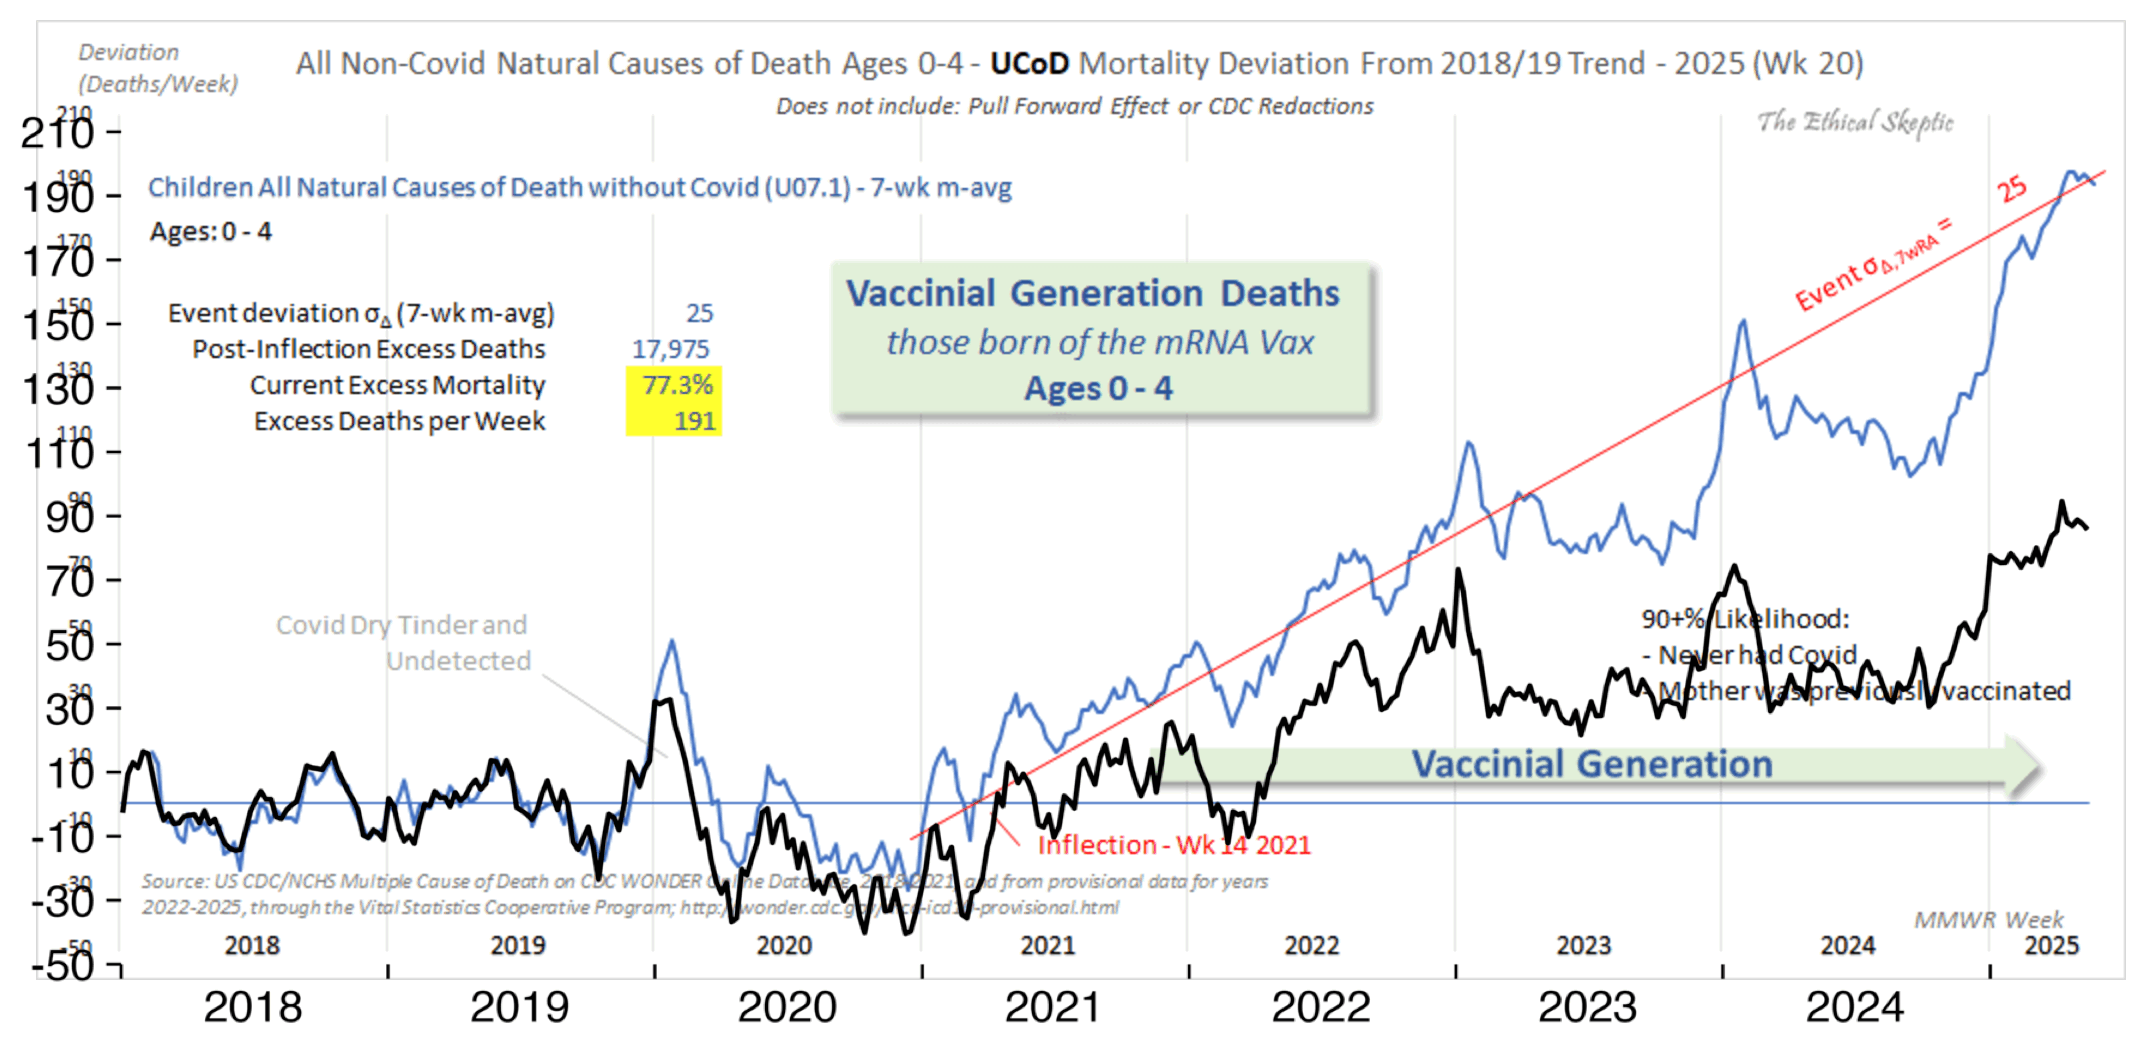
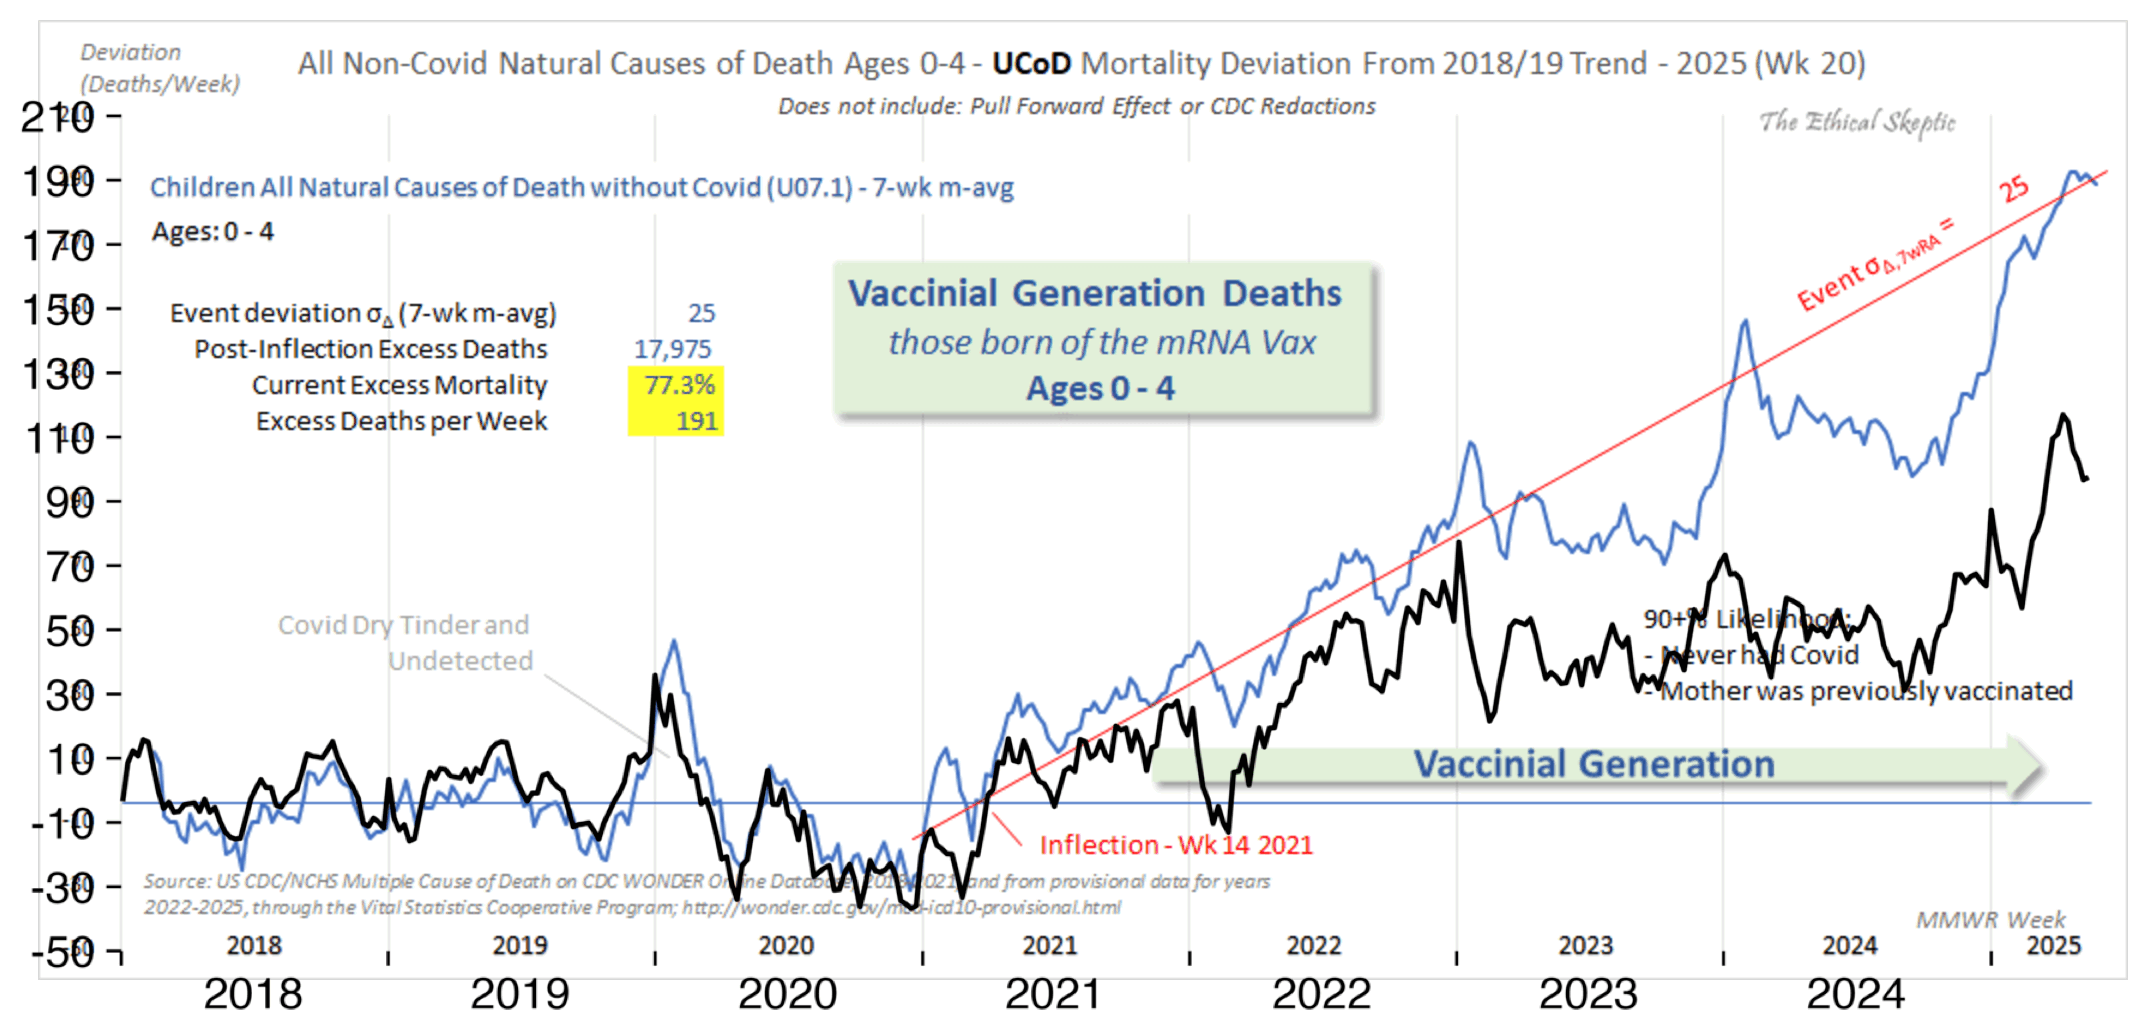
a

diff --git a/ethical3.html b/ethical3.html
@@ -80,6 +80,7 @@ blockquote h3{color:inherit}
 <li><a href="#Are_children_dying_at_rates_never_seen_before">Are children dying at rates never seen before?</a></li>
 <li><a href="#Monthly_stillbirths">Monthly stillbirths</a></li>
 <li><a href="#Was_a_low_number_of_deaths_in_2020_caused_by_pull_forward_effect_due_to_COVID_deaths_in_2019">Was a low number of deaths in 2020 caused by pull-forward effect due to COVID deaths in 2019?</a></li>
+<li><a href="#Failed_attempt_to_reproduce_exponential_baseline">Failed attempt to reproduce exponential baseline</a></li>
 </ul>
 
 
@@ -2280,15 +2281,15 @@ round(t[,nonseasonal:=born-monthlyave])
 <div>
 <img src=i/ethical-dry-tinder-2.png width=550>
 </div>
-<p>The low number of deaths in 2020 was mostly due to a low number of neonatal deaths, which was due to a combination of low neonatal mortality rate and a low number of births. Here my excess neonatal mortality rate remained negative from March 2020 until April 2021:</p>
+<p>The low number of deaths in 2020 was mostly due to a low number of neonatal deaths, which was due to a combination of low neonatal mortality rate and a low number of births. Here my excess neonatal mortality rate remained negative for most of 2020 and 2021:</p>
 <div>
 <img src=i/ethical-neonatal.png width=520>
 </div>
-<p>So if ES wants to blame the low neonatal mortality rate in 2020 on PFE after his undetected COVID wave, then were there a lot of stillbirths or miscarriages during his COVID wave, so then there were less babies left to die as newborns in 2020? That wouldn't explain why the neonatal mortality rate remained low even in early 2021. And the next plot shows that the seasonality-adjusted stillbirth rate was unusually low in December 2019 and January 2020, even though there were later peaks in the stillbirth rate during COVID waves:</p>
+<p>So if ES wants to blame the low neonatal mortality rate in 2020 on PFE after his undetected COVID wave, then were there a lot of stillbirths or miscarriages during his COVID wave, so that there were less babies left to die as newborns in 2020? That wouldn't explain why the neonatal mortality rate remained low even in late 2021 and early 2022, unless there were also less babies left to die as newborns in 2021 and early 2022 because of stillbirths and miscarriages during later COVID waves. But the next plot shows that the seasonality-adjusted stillbirth rate was unusually low during Ethical Skeptic's imaginary COVID wave in December 2019 and January 2020, even though there were peaks in the stillbirth rate during COVID waves in April 2020, December 2020, September 2021, and January 2022:</p>
 <div>
 <img src=i/ethical-wonderstill.png width=550>
 </div>
-<p>In this plot the spike in excess deaths occurs around January to February 2020, and not December 2019 to January 2020:</p>
+<p>In the plot for seasonality-adjusted excess deaths by ES, the spike in excess deaths occurs around January to February 2020, and not December 2019 to January 2020:</p>
 <div>
 <img src=i/ethical-dry-tinder.png width=300>
 </div>
@@ -2296,28 +2297,8 @@ round(t[,nonseasonal:=born-monthlyave])
 <div>
 <img src=i/ethical-january-peaks.png width=800>
 </div>
-<p>In the plot above there's no clear peak in excess deaths around January of 2025, but I think it's because the number of R99 and R96 deaths climbs up rapidly after January 2025, which cancels out the decrease in excess deaths that ES would otherwise get between January and February. If he would remake the plot several months later, he might also get a peak in deaths around January 2025.</p>
-<p>In the following code I tried to otherwise emulate the method ES uses to calculate his seasonality-adjusted baseline, but I simply included all weeks of the MMWR years 2018 and 2019 in my baseline fitting period, and I didn't exclude weeks with high deaths in early 2018 or late 2019:</p>
-<pre># weekly deaths in ages 0-4 with underlying cause A-R or 999--999
-t=fread(&quot;https://sars2.net/f/wondervaccinial0to4.csv&quot;)
-
-# moving average that extends up to 3 weeks backwards and 2 weeks forwards (or 0 weeks backwards at the start)
-ma=\(x,b=1,f=b){x[]=rowMeans(embed(c(rep(NA,b),x,rep(NA,f)),f+b+1),na.rm=T);x}
-t[,dead:=ma(dead,3,2)]
-
-# calculate average weekly deaths for each MMWR year
-# get slope of baseline from difference between deaths in 2019 and 2018
-# baseline for each year is `2018 deaths + (difference between 2019 and 2018 deaths * number of years from 2018)`
-mean=t[,.(dead=mean(dead)),year]
-t=merge(t,mean[,.(year,yearly=dead[year==2018]+(dead[year==2019]-dead[year==2018])*(year-2018))])
-
-# get seasonality-adjusted baseline by adding a weekly factor to the yearly projected baseline
-# the weekly factor is the average difference between actual deaths and yearly average deaths for each week number
-# the weekly factor for week 53 is the average of weeks 1 and 52
-weekly=t[year&lt;2020,tapply(dead-yearly,week,mean)]
-weekly[53]=mean(weekly[c(1,52)])
-t[,base:=yearly+weekly]</pre>
-<p>In the next plot the blue line shows the baseline produced by the code above. I got clearly negative excess deaths in January 2019, and the peak in excess deaths around January 2020 is also smaller than in the plot by ES:</p>
+<p>In the plot above there's no clear peak in excess deaths around January of 2025, but I think it's because the number of R99 and R96 deaths climbs up rapidly after January 2025, which cancels out the decrease in excess deaths that ES would otherwise get between January and February. If he would wait for a couple of months and remake the plot after the R99 and R96 deaths have been assigned under external causes, he might also get a peak in deaths around January 2025.</p>
+<p>In the next plot I fitted a simple linear regression to the deaths in 2018-2019, where I didn't exclude any week from the fitting period of the baseline. Then I calculated the difference between the actual deaths and the linear regression for each week number, and I added it the baseline for the corresponding week number of each year. I got clearly negative excess deaths in January 2019, and the peak in excess deaths around January 2020 was also smaller than in the plot by ES:</p>
 <div>
 <img src=i/ethical-vaccinial-scalloping.png width=650>
 </div>
@@ -2332,12 +2313,11 @@ t[,dead:=ma(dead,3,2)]
 
 t=t[!(year==2025&amp;week&gt;20)]
 
-mean=t[,.(dead=mean(dead)),year]
-t=merge(t,mean[,.(year,yearly=dead[year==2018]+(dead[year==2019]-dead[year==2018])*(year-2018))])
-
-weekly=t[year&lt;2020,tapply(dead-yearly,week,mean)]
+t[,x:=.GRP,.(year,week)]
+t$base=predict(lm(dead~x,t[year&lt;2020]),t)
+weekly=t[year&lt;2020,tapply(dead-base,week,mean)]
 weekly[53]=mean(weekly[c(1,52)])
-t[,base:=yearly+weekly]
+t[,base:=base+weekly[week]]
 
 t[,x:=MMWRweek::MMWRweek2Date(year,week,4)]
 p=t[,.(x,y=c(dead,base,(dead/base-1)*100),z=rep(c(1,2,1),each=.N),facet=rep(1:2,.N*2:1))]
@@ -2386,7 +2366,7 @@ theme(axis.text=element_text(size=11,color=&quot;gray40&quot;),
   strip.text=element_blank())
 ggsave(&quot;1.png&quot;,width=5.8,height=4,dpi=300*4)</pre>
 </div>
-<p>In the next plot the black line shows the excess deaths produced by my code above. You can see that compared to the excess deaths calculated by ES, I got a lower peak in deaths around January 2020, and I subsequently also got greater negative excess mortality for the subsequent year. So from my black line it looks like there's nowhere enough extra deaths around January 2020 to explain the subsequent deficit in deaths over the next year. The reason why I got greater negative excess deaths in 2020 than ES is because I simply used the same constant slope for my baseline throughout the plot, and I didn't assume the slope of the baseline would change between 2019 and 2020 like ES:</p>
+<p>In the next plot the black line shows the excess deaths produced by my code above. You can see that compared to the excess deaths calculated by ES, I got a lower peak in deaths around January 2020, and I also got greater negative excess mortality for the year after the peak. So from my black line it looks like there's nowhere enough extra deaths around January 2020 to explain the subsequent deficit in deaths over the following year:</p>
 <div>
 <img src=i/ethical-vaccinial-scalloping-overlay.png width=800>
 </div>
@@ -2401,12 +2381,11 @@ t[,dead:=ma(dead,3,2)]
 
 t=t[!(year==2025&amp;week&gt;20)]
 
-mean=t[,.(dead=mean(dead)),year]
-t=merge(t,mean[,.(year,yearly=dead[year==2018]+(dead[year==2019]-dead[year==2018])*(year-2018))])
-
-weekly=t[year&lt;2020,tapply(dead-yearly,week,mean)]
+t[,x:=.GRP,.(year,week)]
+t$base=predict(lm(dead~x,t[year&lt;2020]),t)
+weekly=t[year&lt;2020,tapply(dead-base,week,mean)]
 weekly[53]=mean(weekly[c(1,52)])
-t[,base:=yearly+weekly]
+t[,base:=base+weekly[week]]
 
 p=t[,.(x=MMWRweek::MMWRweek2Date(year,week,4),y=dead-base)]
 
@@ -2445,7 +2424,134 @@ theme(axis.text=element_text(size=9,color=&quot;black&quot;),
   plot.title=element_text(size=11,hjust=.5))
 ggsave(&quot;1.png&quot;,width=6,height=2.7,dpi=300*4)</pre>
 </div>
-<p>(In the plot above I aligned the y-axis tick marks so that the blue line intersected the y-axis at zero. The numbers on the y-axis of Ethical Skeptic's plot seem to be misaligned.)</p>
+<h2>
+<a href=#Failed_attempt_to_reproduce_exponential_baseline id=Failed_attempt_to_reproduce_exponential_baseline>Failed attempt to reproduce exponential baseline</a>
+</h2>
+<p>ES linked to this image as an explanation of how he calculated his baseline: [<a href=https://theethicalskeptic.com/2025/08/19/houston-we-have-another-problem/>https://theethicalskeptic.com/2025/08/19/houston-we-have-another-problem/</a>]</p>
+<div>
+<img src=i/ethical-baseline-method-1.png width=500>
+</div>
+<p>I attempted to replicate his methodology in the following code:</p>
+<pre># weekly deaths in ages 0-4 with underlying cause A-R or 999--999
+t=fread(&quot;https://sars2.net/f/wondervaccinial0to4.csv&quot;)
+
+# moving average that extends up to 3 weeks backwards and 2 weeks forwards (truncated at ends)
+ma=\(x,b=1,f=b){x[]=rowMeans(embed(c(rep(NA,b),x,rep(NA,f)),f+b+1),na.rm=T);x}
+t[,dead:=ma(dead,3,2)]
+
+# exclude weeks 46-52 of 2019 from the baseline (I don&#39;t know what weeks were actually excluded by ES)
+base=t[year&lt;2020&amp;!(year==2019&amp;week&gt;45)]
+
+# average deaths for each week number (week 53 is average of weeks 52 and 1)
+weekly=base[,tapply(dead,week,mean)]
+weekly[53]=mean(weekly[c(1,52)])
+
+# annual change in number of deaths (about -12.3)
+# this is similar to the SLOPE function in Excel
+slope=coef(lm(dead~year,base[year&lt;2020]))[&quot;year&quot;]
+
+# annual growth rate relative to average deaths in 2018-2019 is about -0.0295 (about -3%)
+growthrate=slope/base[year&lt;2020,mean(dead)]
+
+# get exponential baseline adjusted for seasonal variation
+t[,baseline:=weekly[week]*(1+growthrate)^(year-2018.5)]
+
+# convert final baseline again to a moving average (I&#39;m not sure if this step was included by ES)
+t[,baseline:=ma(baseline,3,2)]</pre>
+<p>However I was still not successful in reproducing his baseline, because I only got about 26% excess deaths on weeks 14-20 of 2025, and not 77%:</p>
+<div>
+<img src=i/ethical-scalloping-fail.png width=650>
+</div>
+<div class="spoiler">
+<button>
+Show code
+</button>
+<pre>t=fread(&quot;https://sars2.net/f/wondervaccinial0to4.csv&quot;)
+
+ma=\(x,b=1,f=b){x[]=rowMeans(embed(c(rep(NA,b),x,rep(NA,f)),f+b+1),na.rm=T);x}
+t[,dead:=ma(dead,3,2)]
+
+base=t[year&lt;2020&amp;!(year==2019&amp;week&gt;45)]
+slope=coef(lm(dead~year,base[year&lt;2020]))[&quot;year&quot;]
+growthrate=slope/base[year&lt;2020,mean(dead)]
+
+weekly=base[,tapply(dead,week,mean)]
+weekly[53]=mean(weekly[c(1,52)])
+t[,baseline:=weekly[week]*(1+growthrate)^(year-2018.5)]
+
+t[,baseline:=ma(baseline,3,2)]
+
+t=t[!(year==2025&amp;week&gt;20)]
+t[,x:=MMWRweek::MMWRweek2Date(year,week,4)]
+p=t[,.(x,y=c(dead,baseline,(dead/baseline-1)*100),z=rep(c(1,2,1),each=.N),facet=rep(1:2,.N*2:1))]
+
+p[,z:=factor(z,,c(&quot;Actual deaths&quot;,&quot;Failed attempt to reproduce Ethical Skeptic&#39;s baseline&quot;))]
+p[,facet:=factor(facet,,c(&quot;Weekly deaths&quot;,&quot;Excess percentage of deaths&quot;))]
+
+xstart=as.Date(&quot;2018-1-1&quot;);xend=as.Date(&quot;2025-7-1&quot;)
+xbreak=seq(xstart,as.Date(&quot;2025-1-1&quot;),&quot;6 month&quot;);xlab=ifelse(month(xbreak)==7,year(xbreak),&quot;&quot;)
+ylim=p[,{x=extendrange(y,,.03);.(ymin=x[1],ymax=x[2])},facet]
+
+ggplot(p)+
+facet_wrap(~facet,dir=&quot;v&quot;,scales=&quot;free_y&quot;)+
+geom_vline(xintercept=seq(xstart,xend,&quot;year&quot;),color=&quot;gray90&quot;,linewidth=.4)+
+geom_segment(data=p[.N],x=xstart,xend=xend,y=0,yend=0,linewidth=.4,color=&quot;gray75&quot;)+
+geom_rect(data=ylim,aes(ymin=ymin,ymax=ymax),xmin=xstart,xmax=xend,lineend=&quot;square&quot;,linejoin=&quot;mitre&quot;,fill=NA,color=&quot;gray72&quot;,linewidth=.4)+
+geom_line(aes(x,y,color=z),linewidth=.5)+
+geom_label(data=ylim,aes(mean(c(xstart,xend)),ymax,label=facet),vjust=1,label.r=unit(0,&quot;pt&quot;),label.padding=unit(5,&quot;pt&quot;),label.size=.4,color=&quot;gray75&quot;,size=3.8)+
+geom_label(data=ylim,aes(mean(c(xstart,xend)),ymax,label=facet),vjust=1,label.r=unit(0,&quot;pt&quot;),label.padding=unit(5,&quot;pt&quot;),label.size=0,size=3.8,fill=NA)+
+labs(x=NULL,y=NULL,title=&quot;CDC WONDER, ages 0-4: Deaths with underlying cause A-R or 999--999\n(natural causes and R, excluding COVID and external causes)&quot;)+
+scale_x_continuous(limits=c(xstart,xend),breaks=xbreak,labels=xlab)+
+scale_y_continuous(breaks=\(x)pretty(x,7),labels=\(x)if(min(x,na.rm=T)&lt;0)paste0(x,&quot;%&quot;)else x)+
+scale_color_manual(values=c(&quot;black&quot;,hsv(4/36,1,.7)))+
+coord_cartesian(clip=&quot;off&quot;,expand=F)+
+theme(axis.text=element_text(size=11,color=&quot;gray40&quot;),
+  axis.text.y=element_text(margin=margin(,1.5)),
+  axis.ticks=element_line(linewidth=.4,color=&quot;gray75&quot;),
+  axis.ticks.length.x=unit(0,&quot;pt&quot;),
+  axis.ticks.length.y=unit(4,&quot;pt&quot;),
+  legend.background=element_blank(),
+  legend.box.spacing=unit(0,&quot;pt&quot;),
+  legend.direction=&quot;horizontal&quot;,
+  legend.key=element_blank(),
+  legend.key.height=unit(12,&quot;pt&quot;),
+  legend.key.width=unit(23,&quot;pt&quot;),
+  legend.margin=margin(-2,,4),
+  legend.position=&quot;top&quot;,
+  legend.spacing.x=unit(1,&quot;pt&quot;),
+  legend.spacing.y=unit(0,&quot;pt&quot;),
+  legend.text=element_text(size=11,vjust=.5),
+  legend.title=element_blank(),
+  panel.background=element_blank(),
+  panel.spacing=unit(3,&quot;pt&quot;),
+  plot.title=element_text(size=11,face=2,hjust=.5,margin=margin(,,4)),
+  strip.background=element_blank(),
+  strip.text=element_blank())
+ggsave(&quot;1.png&quot;,width=5.8,height=4,dpi=300*4)</pre>
+</div>
+<p>I hadn't earlier understood properly that ES uses an exponential baseline in his plots, because he didn't explain it very clearly in two other images where he described his methodology: [<a href=https://theethicalskeptic.com/wp-content/uploads/2025/09/ICD-10-Code-Excess-Death-Derivation-small.jpg>https://theethicalskeptic.com/wp-content/uploads/2025/09/ICD-10-Code-Excess-Death-Derivation-small.jpg</a>, <a href=https://theethicalskeptic.com/wp-content/uploads/2024/02/Assembly-of-a-scalloped-mortality-baseline.png>https://theethicalskeptic.com/wp-content/uploads/2024/02/Assembly-of-a-scalloped-mortality-baseline.png</a>]</p>
+<div>
+<img src=i/ethical-baseline-method-2.png width=900>
+</div>
+<div>
+<img src=i/ethical-baseline-method-3.png width=600>
+</div>
+<p>Also I thought it wouldn't make sense to first calculate the slope of a linear trend in 2018-2019 but to then project an exponential function into the future based on the linear slope. Even if the deaths actually followed an exponential function, you can't even tell from the slope of the linear regression if the exponential function has a concave or convex curve. If you do a linear regression against an exponential function, there's many different kinds of exponential functions that will produce the same linear slope.</p>
+<p>And anyway there's no value of the growth rate variable you can insert to Ethical Skeptic's formula that will produce a curve that decreases more between 2019 and 2020 than between 2018 and 2019. If you give a negative growth rate to his formula <code>(1+growthrate)^(year-2018.5)</code>, you always get a concave curve where the absolute year-to-year decrease gets smaller over time:</p>
+<pre>d=CJ(year=2018:2025)
+growthrate=-.03 # -3% annual decrease
+d[,multiplier:=(1-growthrate)^(year-2018.5)]
+d[,diff:=c(NA,diff(multiplier))]
+round(d,4)
+# year multiplier    diff
+# 2018     1.0153      NA
+# 2019     0.9849 -0.0305
+# 2020     0.9553 -0.0295
+# 2021     0.9267 -0.0287
+# 2022     0.8989 -0.0278
+# 2023     0.8719 -0.0270
+# 2024     0.8458 -0.0262
+# 2025     0.8204 -0.0254</pre>
 <script>
 document.querySelectorAll('pre').forEach(e=>e.innerHTML=e.innerHTML.replace(/((^| )# [^\n]*|^#$)/mg,"<span class=comment>$1</span>"))
 
